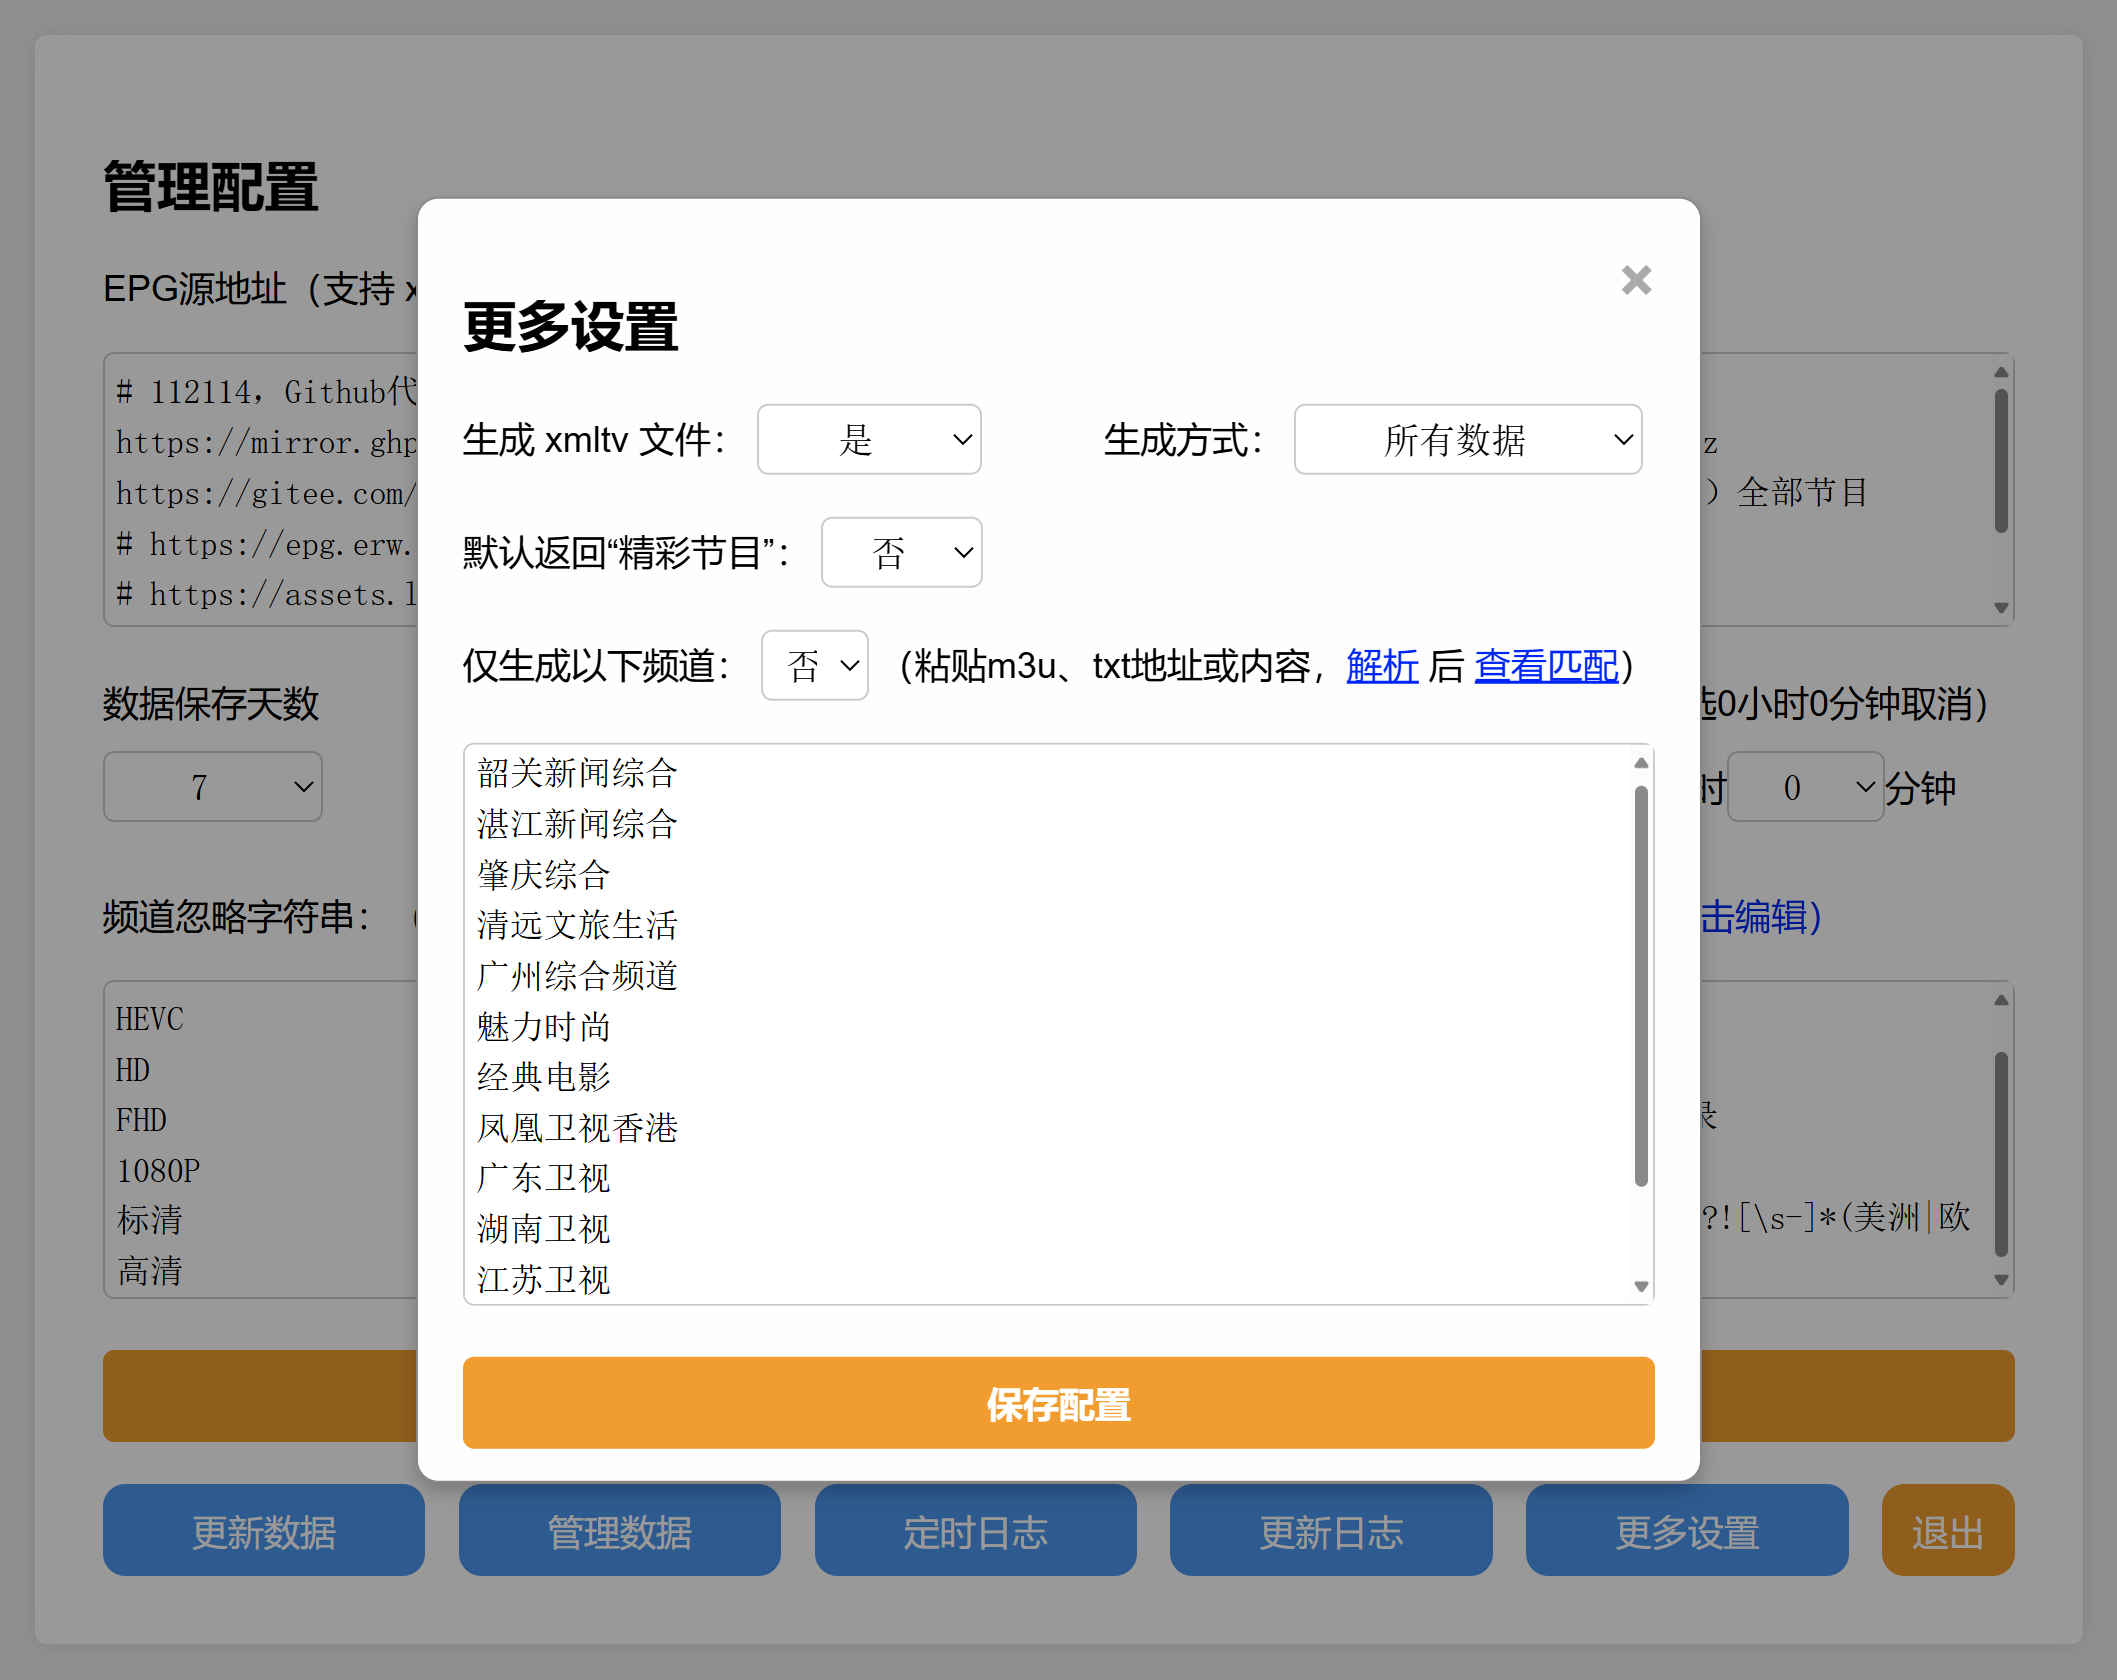
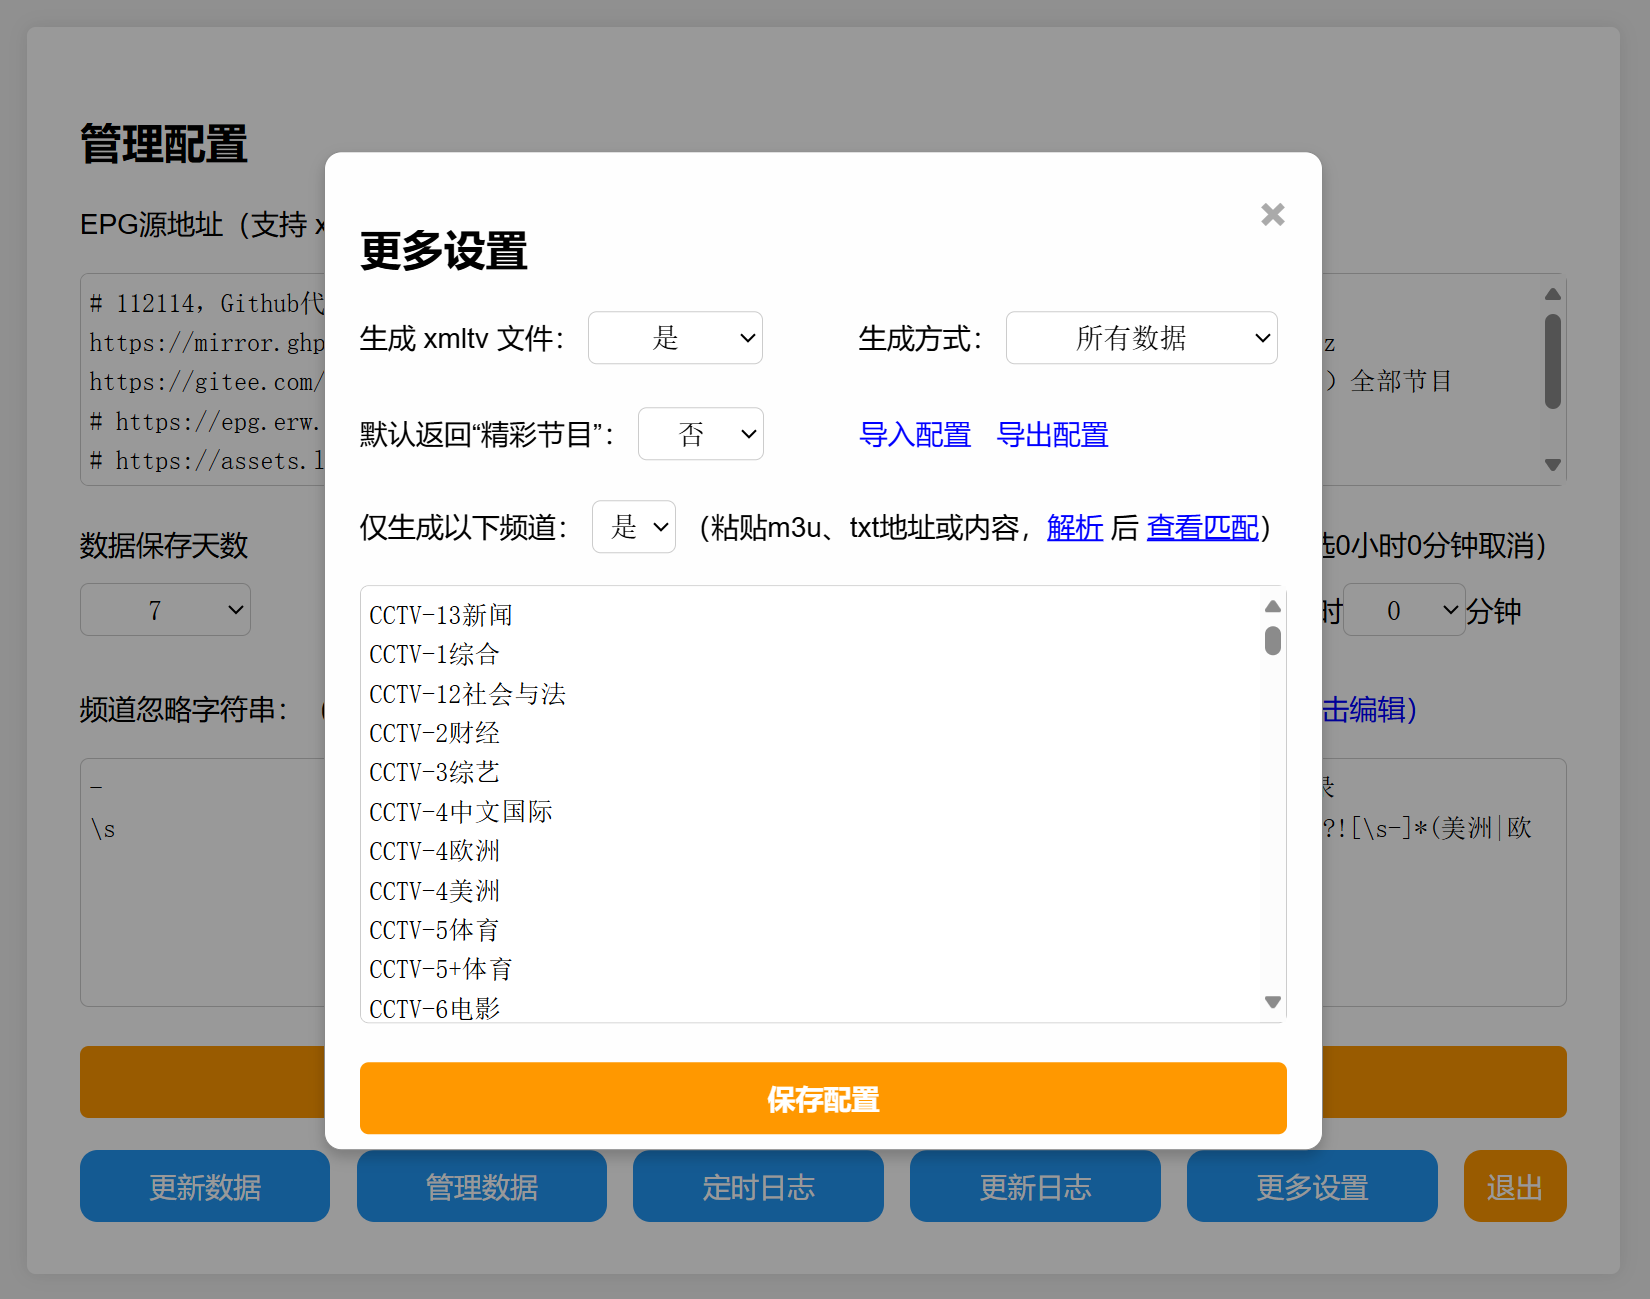
新增：数据导入导出

diff --git a/epg/css/manage.css b/epg/css/manage.css
@@ -258,6 +258,7 @@ input[type="text"] {
 }
 .modal-content select[id="ret_default"] {
     width: 72px;
+    margin-right: 50px;
 }
 /* 工具提示容器 */
 .tooltip {

diff --git a/epg/manage.php b/epg/manage.php
@@ -26,6 +26,13 @@ if ($configUpdated) {
     unset($_SESSION['configUpdated']);
 }
 
+if (isset($_SESSION['import_message'])) {
+    $importMessage = $_SESSION['import_message'];
+    unset($_SESSION['import_message']); // 清除消息以防再次显示
+} else {
+    $importMessage = '';
+}
+
 // 处理密码更新请求
 if ($_SERVER['REQUEST_METHOD'] == 'POST' && isset($_POST['change_password'])) {
     $oldPassword = $_POST['old_password'];
@@ -367,6 +374,46 @@ try {
         }
         exit;
     }
+
+    // 导入配置
+    if (!empty($_FILES['importFile']['tmp_name'])) {
+        $zip = new ZipArchive();
+        $importFile = $_FILES['importFile']['tmp_name'];
+        $message = "";
+
+        if ($zip->open($importFile) === TRUE) {
+            if ($zip->extractTo('.')) {
+                $message = "导入成功！";
+            } else {
+                $message = "导入失败！解压过程中发生问题。";
+            }
+            $zip->close();
+        } else {
+            $message = "导入失败！无法打开压缩文件。";
+        }
+
+        $_SESSION['import_message'] = $message;
+        header('Location: manage.php');
+        exit;
+    }
+
+    // 导出配置
+    if ($_SERVER['REQUEST_METHOD'] === 'POST' && empty($_FILES['importFile']['tmp_name'])) {
+        $zip = new ZipArchive();
+        $zipFileName = 't.gz';
+
+        if ($zip->open($zipFileName, ZipArchive::CREATE | ZipArchive::OVERWRITE) === TRUE) {
+            $zip->addFile('data/config.json');
+            $zip->addFile('data/data.db');
+            $zip->close();
+
+            header('Content-Type: application/zip');
+            header('Content-Disposition: attachment; filename=' . $zipFileName);
+            readfile($zipFileName);
+            unlink($zipFileName);
+        }
+        exit;
+    }
 } catch (Exception $e) {
     // 处理数据库连接错误
     $logData = [];
@@ -584,6 +631,11 @@ if ($_SERVER['REQUEST_METHOD'] == 'GET' && isset($_GET['url'])) {
             <option value="1" <?php if (!isset($Config['ret_default']) || $Config['ret_default'] == 1) echo 'selected'; ?>>是</option>
             <option value="0" <?php if (isset($Config['ret_default']) && $Config['ret_default'] == 0) echo 'selected'; ?>>否</option>
         </select>
+        <form id="importForm" method="post" enctype="multipart/form-data" style="display: inline-block;">
+            <input type="file" name="importFile" id="importFile" style="display: none;" accept=".gz" onchange="document.getElementById('importForm').submit();">
+            <span id="import" onclick="document.getElementById('importFile').click()" style="color: blue; cursor: pointer; margin-right: 20px;">数据导入</span>
+            <span id="export" onclick="document.getElementById('importForm').submit()" style="color: blue; cursor: pointer;">数据导出</span>
+        </form>
         <br><br>
         <label for="gen_list_text">仅生成以下频道：</label>
         <select id="gen_list_enable" name="gen_list_enable" style="width: 48px; margin-right: 0px;" required>
@@ -674,26 +726,39 @@ if ($_SERVER['REQUEST_METHOD'] == 'GET' && isset($_GET['url'])) {
     var intervalTime = "<?php echo $Config['interval_time']; ?>";
     var startTime = "<?php echo $Config['start_time']; ?>";
     var endTime = "<?php echo $Config['end_time']; ?>";
+    var importMessage = <?php echo json_encode($importMessage); ?>;
 
-    if (configUpdated) {
+    function displayModal(message) {
         var modal = document.getElementById("myModal");
         var span = document.getElementsByClassName("close")[0];
         var modalMessage = document.getElementById("modalMessage");
-        if (intervalTime === "0") {
-            modalMessage.innerHTML = "配置已更新<br><br>已取消定时任务";
-        } else {
-            modalMessage.innerHTML = `配置已更新<br><br>已设置定时任务<br>开始时间：${startTime}<br>结束时间：${endTime}<br>间隔周期：${formatTime(intervalTime)}`;
-        }
+
+        modalMessage.innerHTML = message;
         modal.style.display = "block";
+
         span.onclick = function() {
             modal.style.display = "none";
-        }
+        };
+
         window.onclick = function(event) {
             if (event.target == modal) {
                 modal.style.display = "none";
             }
+        };
+    }
+
+    if (configUpdated) {
+        var message;
+        if (intervalTime === "0") {
+            message = "配置已更新<br><br>已取消定时任务";
+        } else {
+            message = `配置已更新<br><br>已设置定时任务<br>开始时间：${startTime}<br>结束时间：${endTime}<br>间隔周期：${formatTime(intervalTime)}`;
         }
-        $configUpdated = false;
+        displayModal(message);
+    }
+
+    if (importMessage) {
+        displayModal(importMessage);
     }
 
     function showModal(type, $popup = true) {
